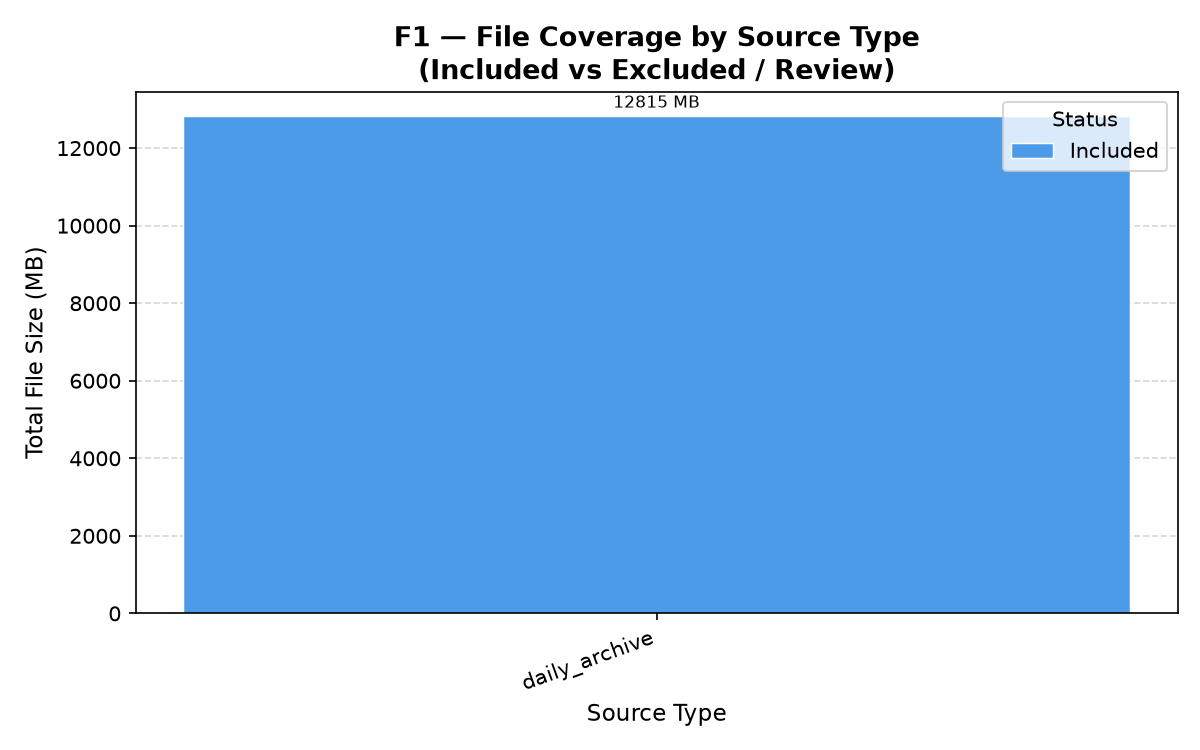
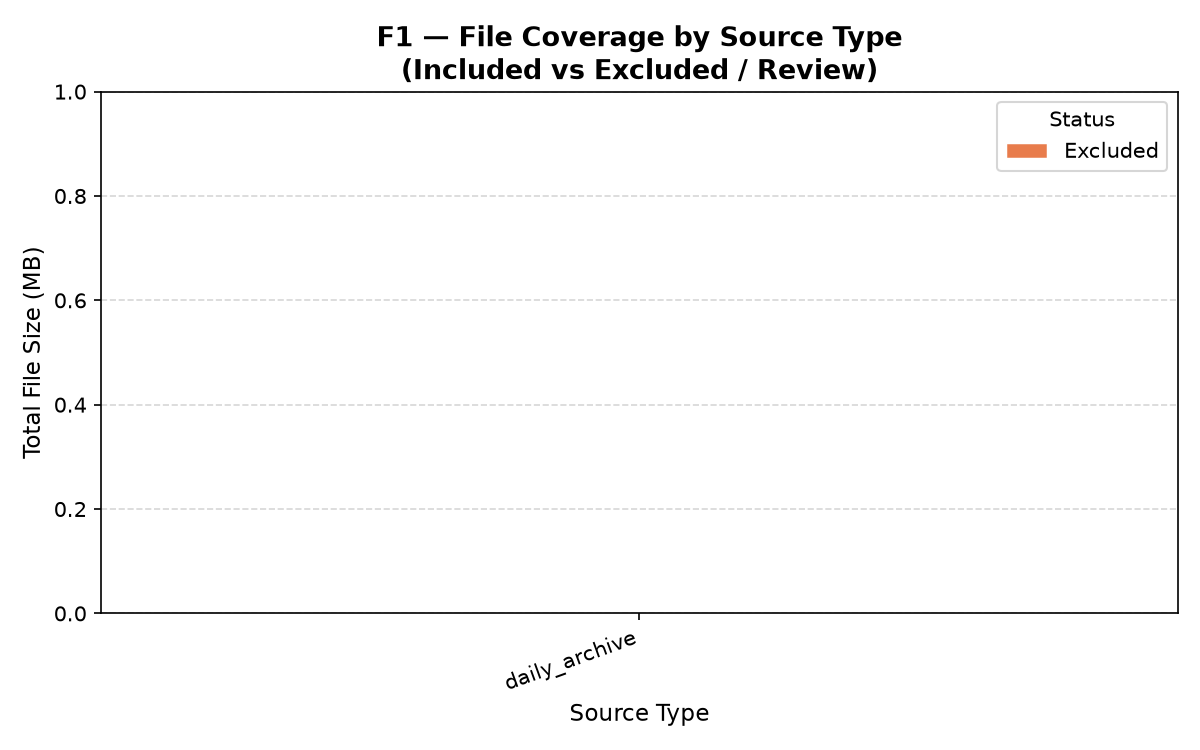
Clarify EDA 1 scope table date coverage

diff --git a/src/eda/eda_01_dataset_intake.py b/src/eda/eda_01_dataset_intake.py
@@ -49,6 +49,10 @@ CHART_FILENAME   = "F1_file_coverage_chart.png"
 README_FILENAME  = "README_eda01_intake.txt"
 TAR_PEEK_MEMBERS = 20          # members peeked during tar smoke test
 
+# Full set of corrected daily-archive dates from the official OpTC catalog.
+# Used to detect gaps and avoid implying continuous temporal coverage.
+_CORRECTED_CATALOG_DATES = [f"2019-09-{d:02d}" for d in range(16, 26)]
+
 
 # ── ── ── ── ── ── ── ── ── ── ── ── ── ── ── ── ── ── ── ── ── ── ── ──
 # CLI ARGUMENT PARSING
@@ -365,11 +369,11 @@ def build_ledger(
             "date_label"                           : date_label,
             "file_size_mb"                         : size_mb,
             "included_yes_no"                      : included,
-            "exclusion_reason"                     : excl_reason,
+            "exclusion_reason"                     : excl_reason or "none",
             "parser_name"                          : parser_name,
             "parse_status"                         : parse_status,
             "checksum_if_available"                : checksum,
-            "manual_review_note"                   : "",
+            "manual_review_note"                   : "not_applicable",
         })
 
     if not records:
@@ -398,12 +402,40 @@ def build_scope_table(
         known_dates = sorted(
             ledger.loc[ledger["date_label"] != "unknown", "date_label"].unique().tolist()
         )
-        date_val = (f"{known_dates[0]} — {known_dates[-1]}"
-                    if len(known_dates) > 1 else
-                    known_dates[0] if known_dates else
-                    "unknown — no date tokens found")
+        # Intersect with the known corrected catalog to identify what is
+        # available vs what is still pending download.
+        available_dates = [d for d in known_dates if d in _CORRECTED_CATALOG_DATES]
+        pending_dates   = [d for d in _CORRECTED_CATALOG_DATES if d not in known_dates]
+
+        if available_dates:
+            avail_str = ", ".join(available_dates)
+            catalog_start = _CORRECTED_CATALOG_DATES[0]
+            catalog_end   = _CORRECTED_CATALOG_DATES[-1]
+            date_val = (
+                f"available corrected archive dates: {avail_str}; "
+                f"corrected catalog range under intake plan: "
+                f"{catalog_start} through {catalog_end}"
+            )
+        else:
+            date_val = "unknown — no corrected catalog dates found in scanned files"
+
+        if pending_dates:
+            date_limitation = (
+                "continuous temporal coverage not yet achieved; "
+                f"missing corrected archives remain pending download: "
+                f"{', '.join(pending_dates)}"
+            )
+        else:
+            date_limitation = (
+                "all corrected catalog dates accounted for in this scan; "
+                "verify archive contents before claiming full temporal coverage"
+            )
     else:
-        date_val = "unknown — no date tokens found"
+        date_val       = "unknown — no date tokens found"
+        date_limitation = (
+            "continuous temporal coverage not yet achieved; "
+            "missing corrected archives remain pending download"
+        )
 
     if has_data:
         src_types = sorted(ledger["source_type"].unique().tolist())
@@ -426,14 +458,25 @@ def build_scope_table(
             "scope_item"    : "date_range",
             "selected_value": date_val,
             "reason"        : "Inferred from folder/filename tokens during intake scan",
-            "limitation"    : "Date inferred from path tokens; manual verification recommended",
+            "limitation"    : date_limitation,
         },
         {
             "scope_item"    : "event_sources",
-            "selected_value": ("daily_archive; internal endpoint/network/source "
-                               "files not extracted yet"),
-            "reason"        : "Archive not extracted at EDA-01 level; internal file types catalogued in EDA-02",
-            "limitation"    : "Source type breakdown requires extraction; deferred to EDA-02",
+            "selected_value": (
+                "archive-level daily tar files; "
+                "detailed row-level source profiling deferred to EDA 2; "
+                "lightweight tar-member coverage may be computed in EDA 1 "
+                "without full extraction"
+            ),
+            "reason"        : (
+                "Archive not extracted at EDA-01 level; "
+                "tar member names can be inspected for source classification "
+                "using eda_01_master_archive_inventory.py --estimate-extracted-size"
+            ),
+            "limitation"    : (
+                "Row-level source breakdown and field-level profiling "
+                "require extraction; deferred to EDA-02"
+            ),
         },
         {
             "scope_item"    : "ground_truth_source",